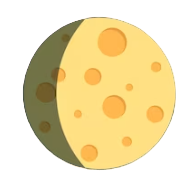
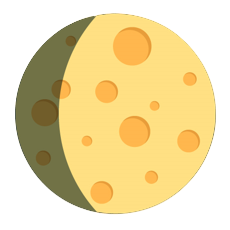
moon and forecast img

diff --git a/src/components/Forecast.tsx b/src/components/Forecast.tsx
@@ -1,11 +1,8 @@
 import styles from '../app/page.module.css'
 import { forecastType } from '../types/index'
 import Image from 'next/image'
-import moon from '../assets/waxingGibbous.png'
 import sunrise from '../assets/sunrise.png'
 import sunset from '../assets/sunset.png'
-import sun from '../assets/sun.png'
-import sunny from '../assets/sunny.png'
 import { FaWind, FaCloudRain , FaMoon, FaSun, FaTemperatureHigh, FaArrowUp, FaArrowDown} from 'react-icons/fa'
 import { ImLocation2, ImDroplet } from 'react-icons/im'
 import { useState } from 'react'
@@ -16,10 +13,42 @@ interface ForecastProps {
 
 export function Forecast({ data }: ForecastProps) {
   var threedays = data.days.slice(2, 5);
-  var weekly = data.days.slice(2);
+  var weekly = data.days.slice(2)
   var today = data.days[0].hours
 
   const [dayShow, setDayShow] = useState(true);
+ 
+  var moonPhase = data.currentConditions.moonphase
+  var moonPhaseName = ''
+  var moonImage = ''
+
+  if (moonPhase == 0) {
+    moonPhaseName  = 'New Moon';
+    moonImage = 'newMoon'
+  } else if (moonPhase > 0 && moonPhase < 0.25) {
+    moonPhaseName  = 'Waxing Crescent';
+    moonImage = 'waxingCrescent'
+  } else if (moonPhase == 0.25) {
+    moonPhaseName  = 'First Quarter';
+    moonImage = 'firstQater'
+  } else if (moonPhase > 0.25 && moonPhase < 0.5) {
+    moonPhaseName  = 'Waxing Gibbous';
+    moonImage = 'waxingCrescent'
+  } else if (moonPhase == 0.5) {
+    moonPhaseName  = 'Full Moon';
+    moonImage = 'waxingCrescent'
+  } else if (moonPhase > 0.5 && moonPhase < 0.75) {
+    moonPhaseName  = 'Waning Gibbous';
+    moonImage = 'waxingCrescent'
+  } else if (moonPhase == 0.75) {
+    moonPhaseName  = 'Last Quarter';
+    moonImage = 'waxingCrescent'
+  } else if (moonPhase > 0.75 && moonPhase < 1) {
+    moonPhaseName  = 'Waning Crescent';
+    moonImage = 'waxingCrescent'
+  } else {
+    moonPhaseName  = 'Moon Phase not found';
+  }
  
   return(
     <section className={styles.secTemp}>
@@ -35,7 +64,7 @@ export function Forecast({ data }: ForecastProps) {
                 <p><FaTemperatureHigh /> {data.currentConditions.feelslike.toFixed()}°C</p>
               </div>
               <div className={styles.conditions}>
-                <Image src={sun} alt='Forecast Image' width={65} height={65}/>
+                <Image src={require(`../assets/${data.currentConditions.icon}.png`)} alt='Forecast Image' width={65} height={65}/>
                 <p>{data.currentConditions.conditions}</p>
               </div>
             </div>
@@ -88,8 +117,8 @@ export function Forecast({ data }: ForecastProps) {
                   <FaMoon />
                   <span>Moon phase</span>
                 </div>
-                <Image src={moon} alt='MoonPhase' width={147} height={151}/>
-                <p>Waxing Gibbous</p>
+                <Image src={require(`../assets/${moonImage}.png`)} alt='MoonPhase' width={147} height={151}/>
+                <p>{moonPhaseName}</p>
               </div>
               <div className={styles.forecast}>
                 {threedays.map((day, index) => (
@@ -97,7 +126,7 @@ export function Forecast({ data }: ForecastProps) {
                     <div className={styles.day}>
                       <strong>{new Date(day.datetime).toLocaleString("en-US", { weekday: 'long' })}</strong>
                       <p>{new Date(day.datetime).toLocaleString("en-US", { month: 'long', day: 'numeric' })}</p>
-                      <Image src={sunny} alt='Sunset' width={65} height={65}/>
+                      <Image src={require(`../assets/${day.icon}.png`)} alt='Sunset' width={65} height={65}/>
                       <p><FaArrowUp />{day.tempmax.toFixed()}° <span><FaArrowDown />{day.tempmin.toFixed()}°</span></p>
                     </div>
                   </div>
@@ -114,7 +143,7 @@ export function Forecast({ data }: ForecastProps) {
               <div className={styles.toggleDays} key={index}>
                 <div className={styles.toggleDays}>
                   <strong>{today.datetime.slice(0, 5)}</strong>
-                  <Image src={sunny} alt='Sunset' width={65} height={65}/>
+                  <Image src={require(`../assets/${today.icon}.png`)} alt='Sunset' width={65} height={65}/>
                   <p>{today.temp.toFixed()}°</p>
                 </div>
               </div>
@@ -125,7 +154,7 @@ export function Forecast({ data }: ForecastProps) {
               <div className={styles.toggleDays} key={index}>
                 <div className={styles.toggleDays}>
                   <strong>{new Date(day.datetime).toLocaleString("en-US", { weekday: 'short' })} - <span>{new Date(day.datetime).toLocaleString("en-US", { month: 'short', day: 'numeric' })}</span></strong>
-                  <Image src={sunny} alt='Sunset' width={65} height={65}/>
+                  <Image src={require(`../assets/${day.icon}.png`)} alt='Sunset' width={65} height={65}/>
                   <p><FaArrowUp />{day.tempmax.toFixed()}°</p>
                   <p><FaArrowDown />{day.tempmin.toFixed()}°</p>
                 </div>
